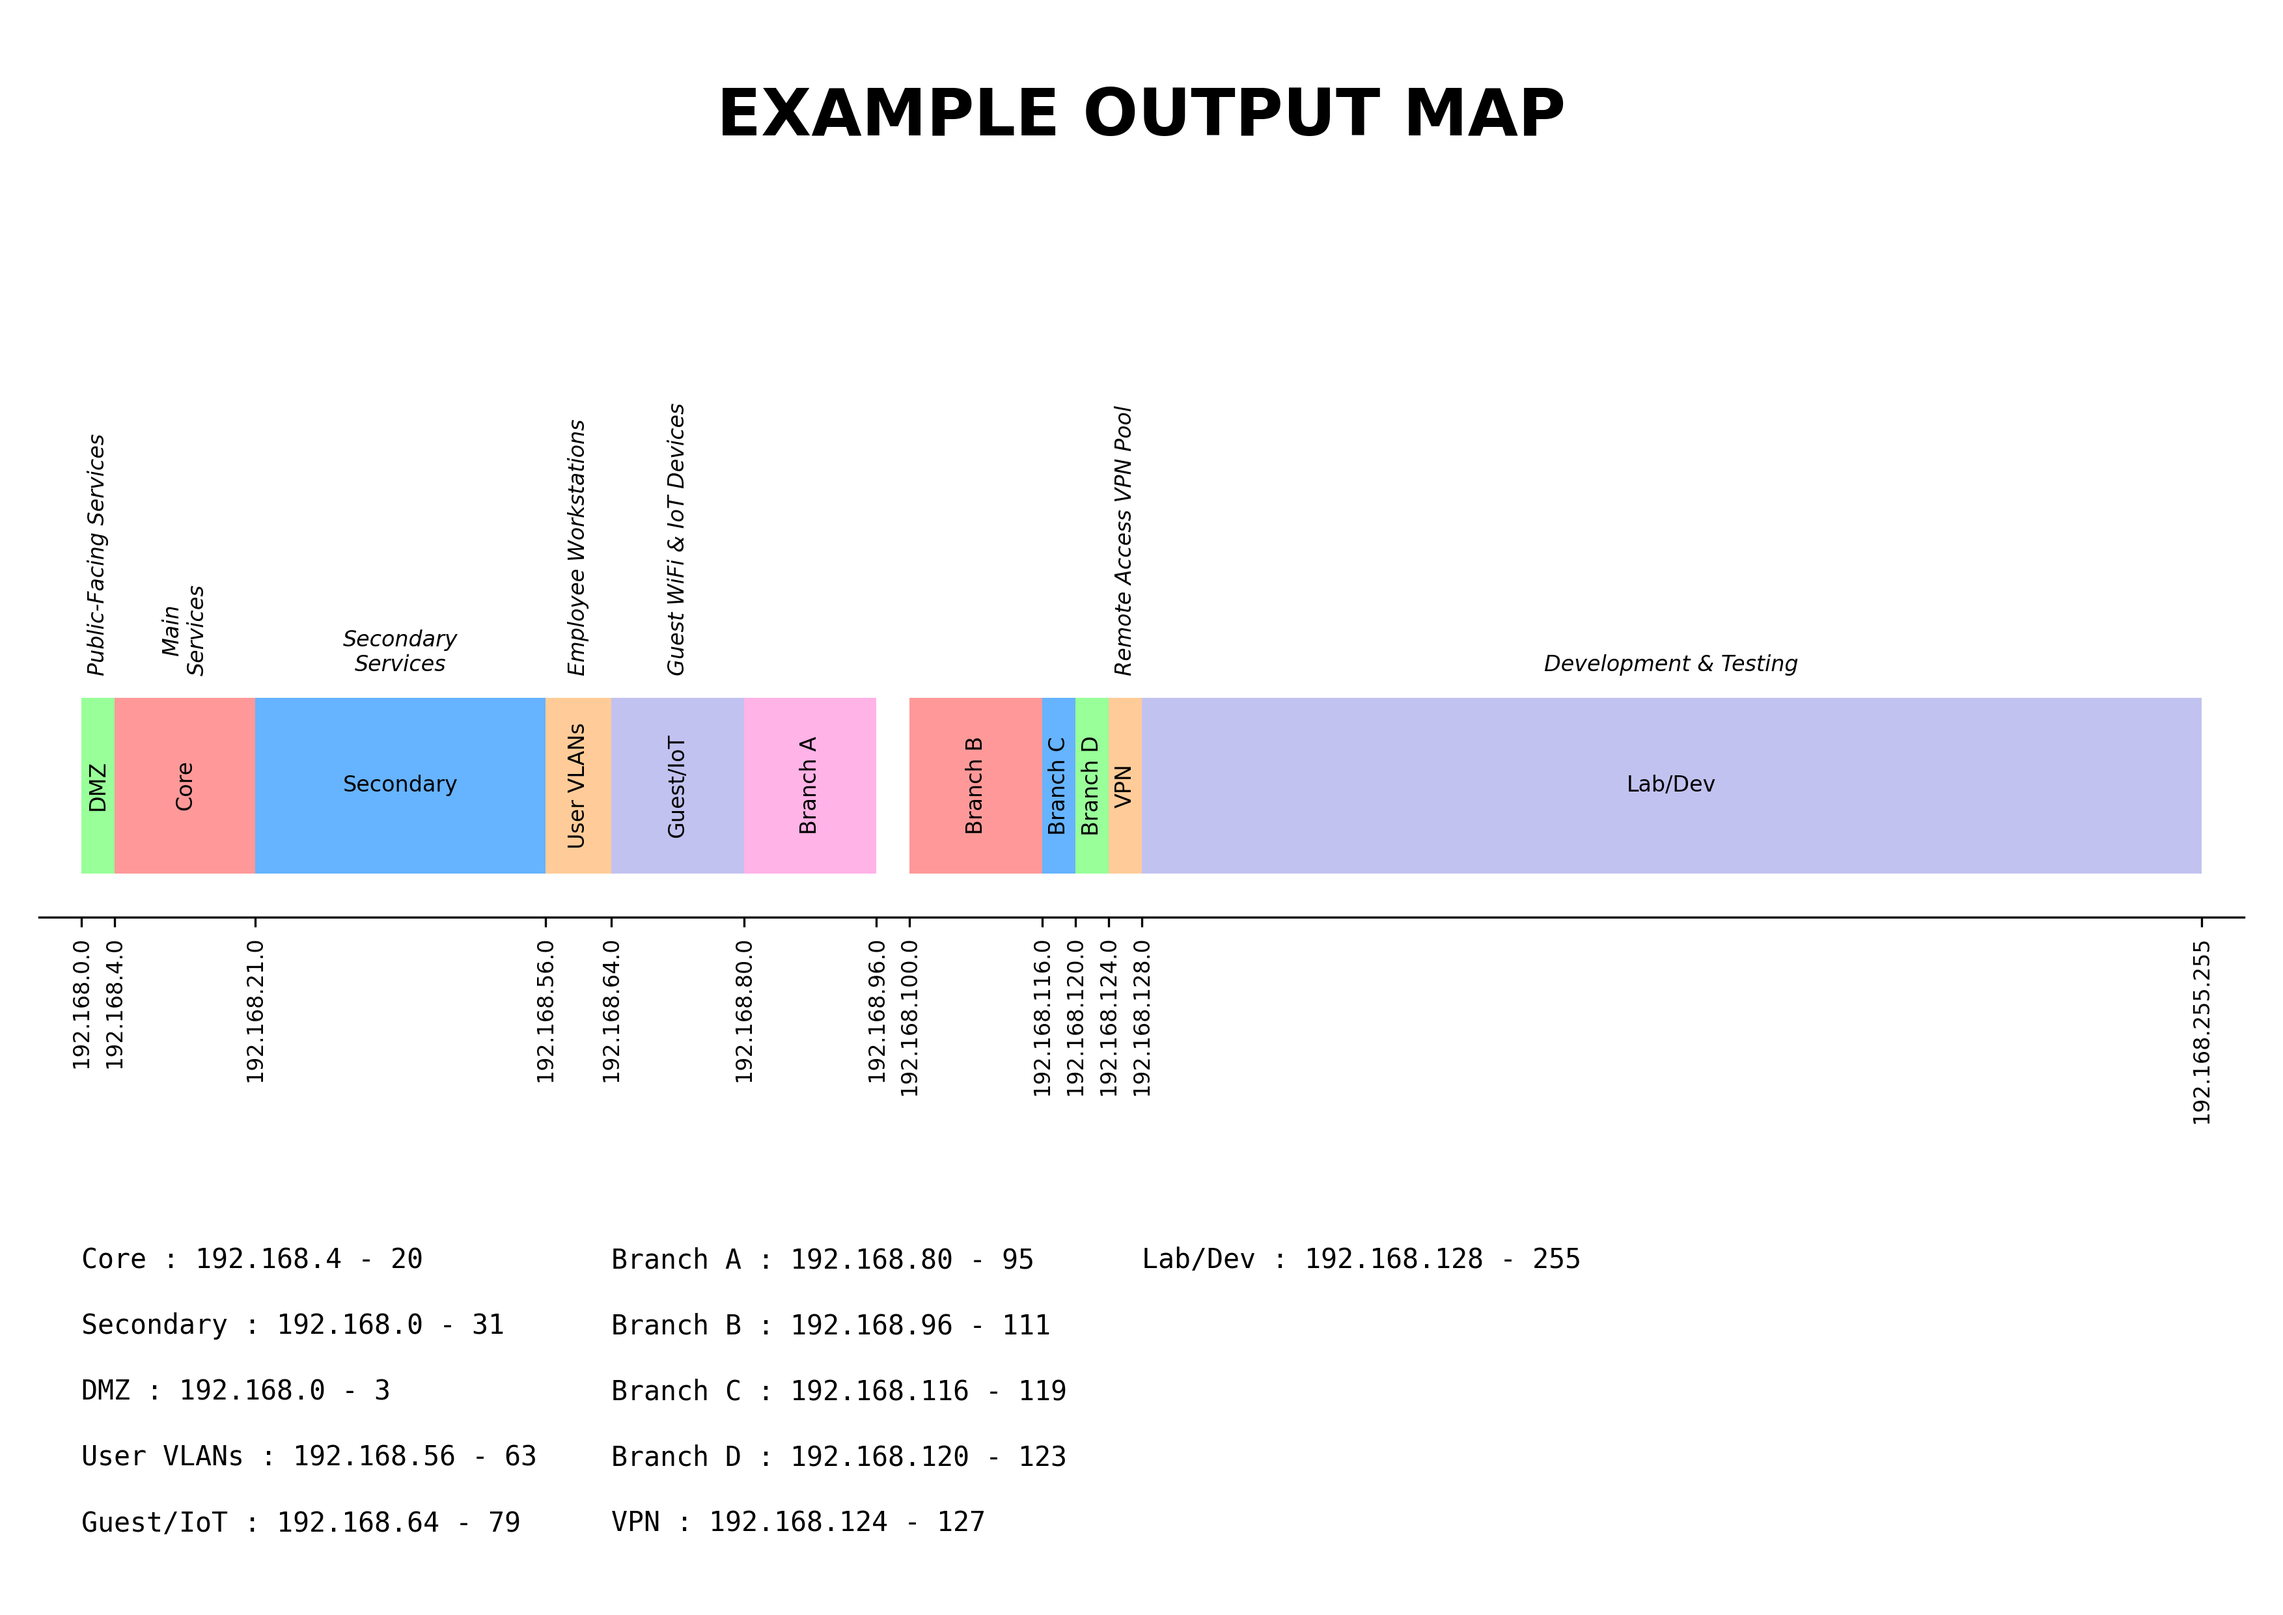
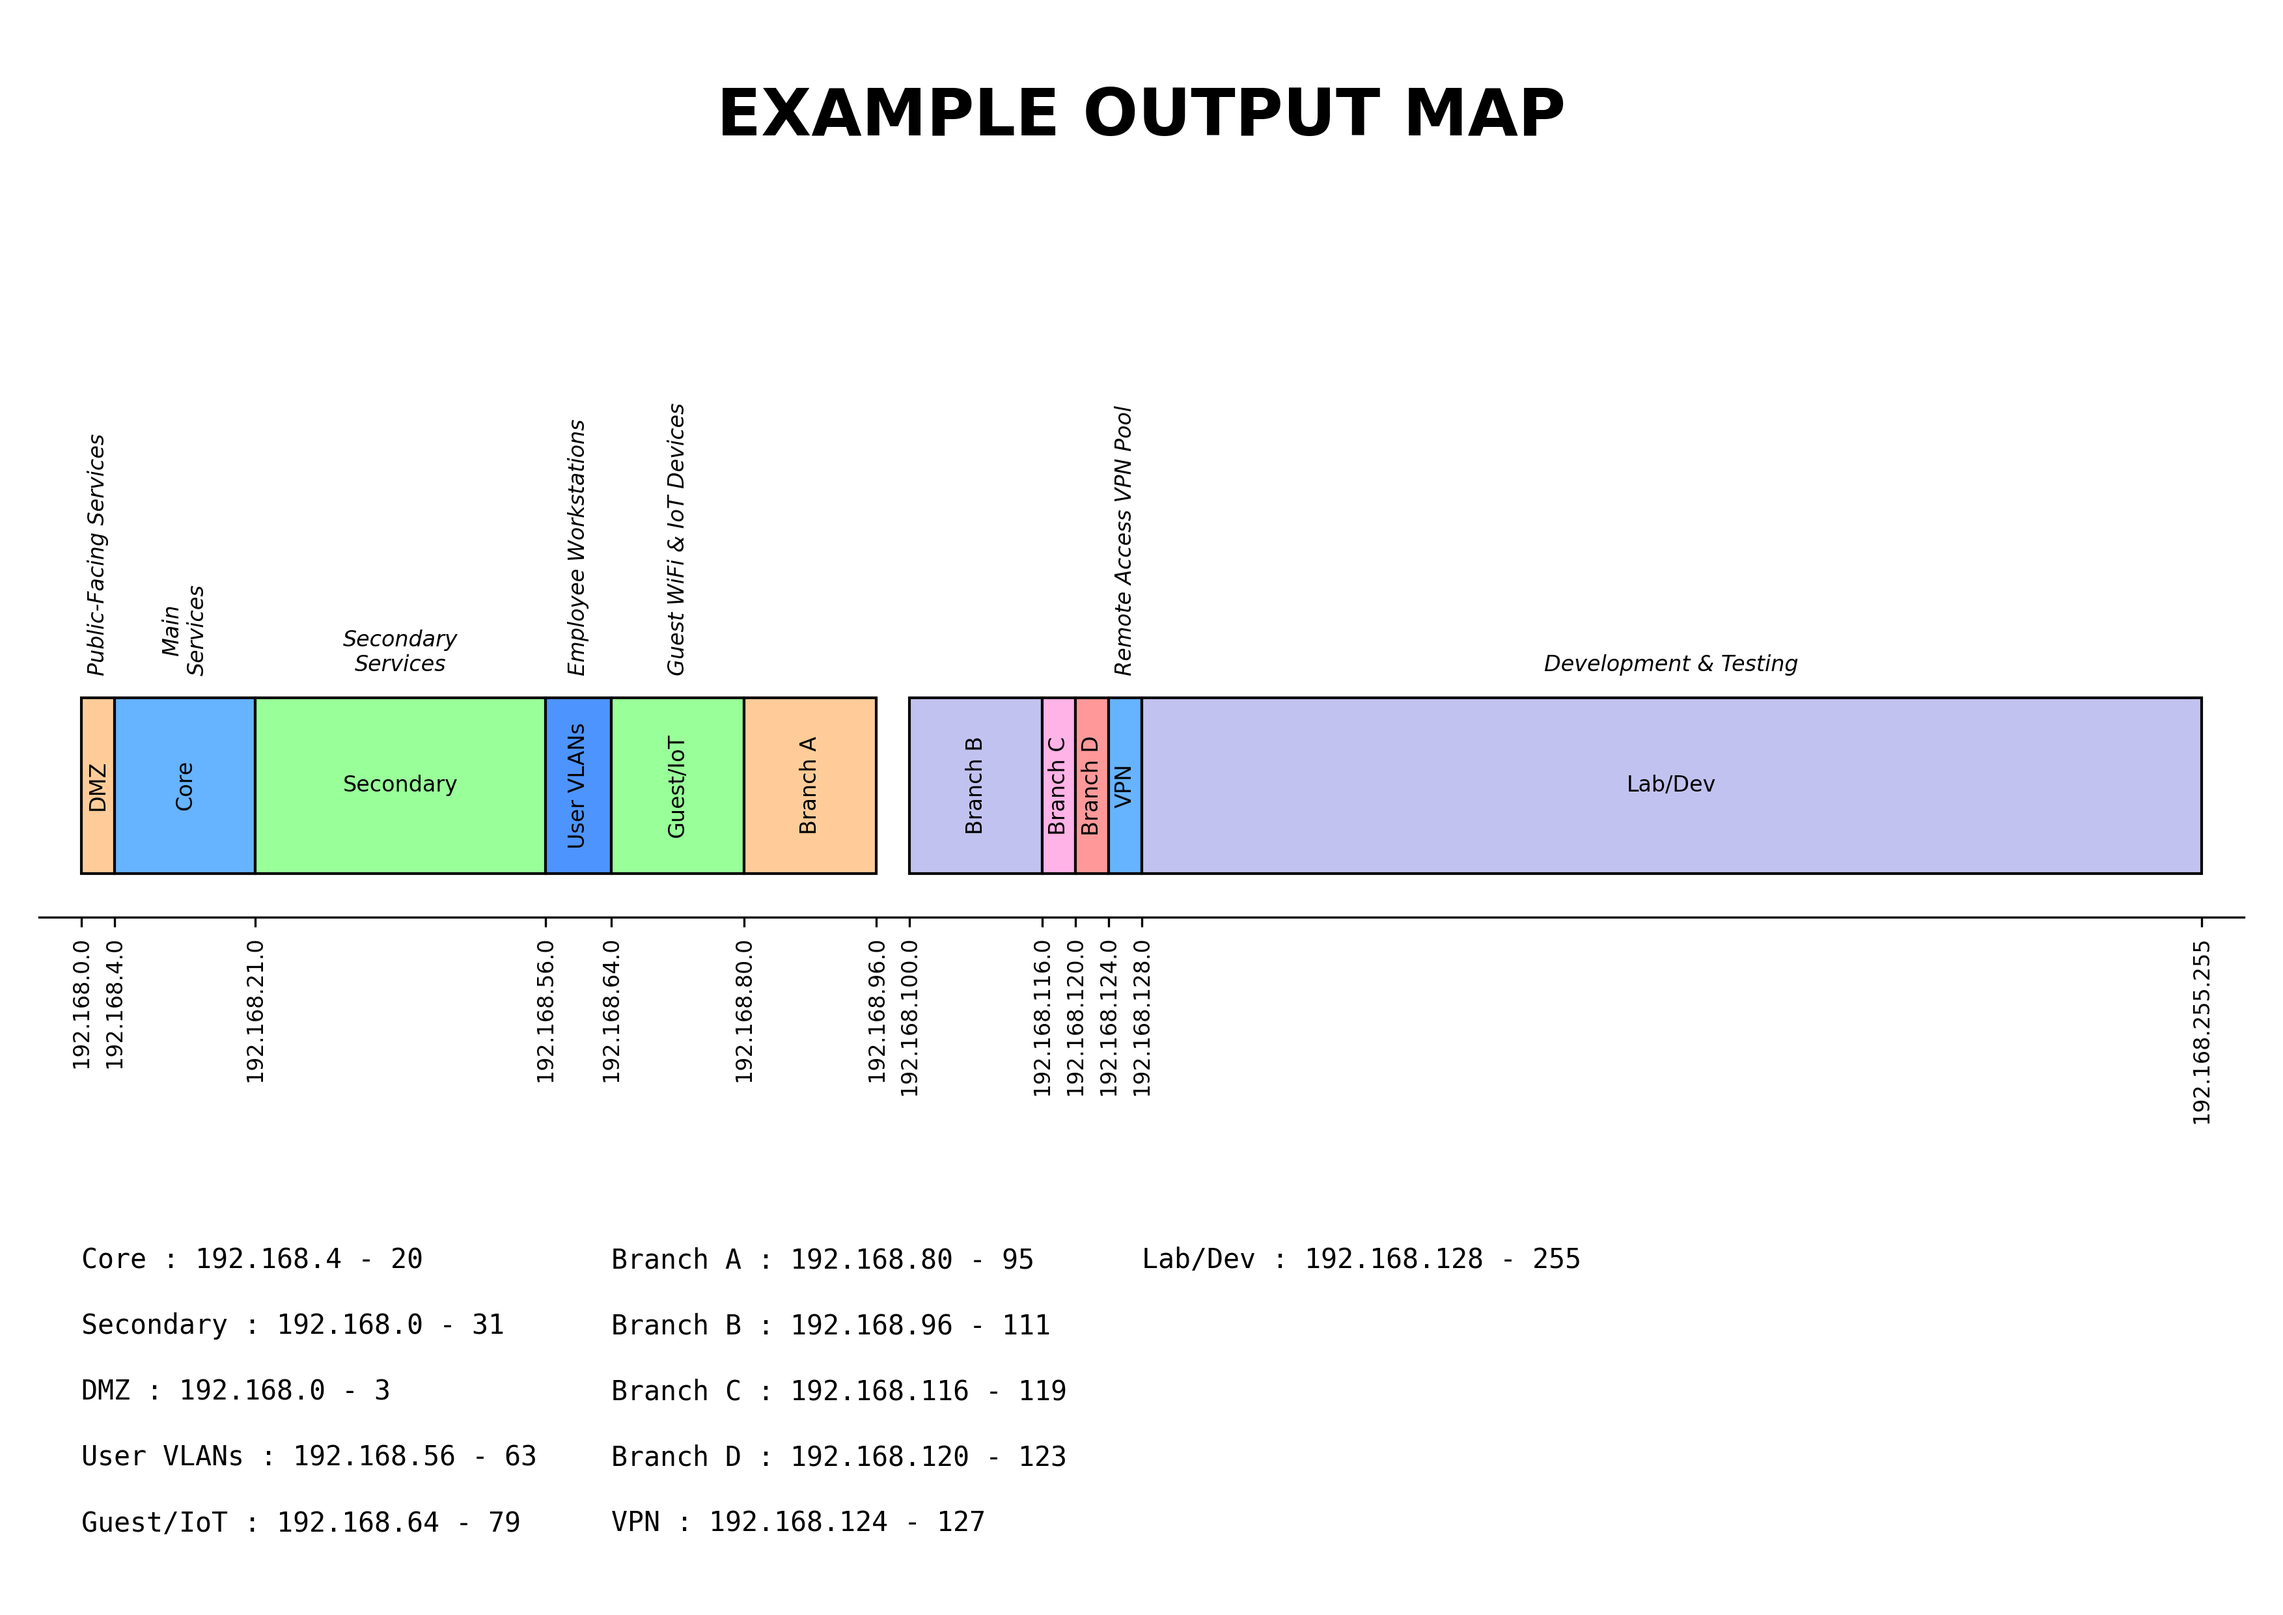
Add subnet color customization and border styling

Changed region(s): [[0.0311, 0.4035, 0.5284, 0.5586]]

diff --git a/visualizer.py b/visualizer.py
@@ -7,6 +7,22 @@ import importlib.util
 import os
 
 
+# Available colors for subnet groups
+COLORS = {
+    'red': '#ff9999',
+    'blue': '#66b3ff',
+    'light_blue': '#b3e0ff',
+    'dark_blue': '#4d94ff',
+    'green': '#99ff99',
+    'orange': '#ffcc99',
+    'purple': '#c2c2f0',
+    'pink': '#ffb3e6',
+}
+
+# Default color cycle (for groups without explicit color)
+DEFAULT_COLORS = list(COLORS.values())
+
+
 def parse_network(cidr):
     try:
         return ipaddress.ip_network(cidr, strict=False)
@@ -53,6 +69,7 @@ def draw_network_diagram(main_cidr, subnet_groups, title=None, width_px=1400):
         group_comment = group.get('comment')
         cidrs_data = group.get('subnets', [])
         show_full = group.get('show_full', True)
+        group_color = group.get('color')  # Optional color specification
         
         group_subnets = []
         
@@ -138,7 +155,8 @@ def draw_network_diagram(main_cidr, subnet_groups, title=None, width_px=1400):
                     'end_int': end_ip_int,
                     'title': group_title,
                     'group_idx': group_idx,
-                    'comment': group_comment
+                    'comment': group_comment,
+                    'color': group_color
                 })
             except Exception as e:
                 print(f"Error parsing {cidr_str}: {e}")
@@ -157,6 +175,7 @@ def draw_network_diagram(main_cidr, subnet_groups, title=None, width_px=1400):
                 'title': group_title,
                 'group_idx': group_idx,
                 'comment': group_comment,
+                'color': group_color,
                 'show_full': False
             })
         else:
@@ -249,24 +268,28 @@ def render_plot(main_net, subnets_data, text_summaries, output_file, title=None,
 
     # Draw Subnets
     subnets_data.sort(key=lambda x: x['start_int'])
-    
-    colors = ['#ff9999', '#66b3ff', '#99ff99', '#ffcc99', '#c2c2f0', '#ffb3e6']
-    
+
     for i, item in enumerate(subnets_data):
         # Use custom coordinates
         s_start = item['start_int']
         s_end = item['end_int']
         s_width = s_end - s_start + 1
-        
+
         subnet_title = item['title']
         group_idx = item['group_idx']
         comment = item['comment']
         cidr_label = item['cidr_str']
-        
+        specified_color = item.get('color')
+
         # Determine color based on style
         if style == "colored":
-            color = colors[group_idx % len(colors)]
-            edge_color = 'none'
+            if specified_color:
+                # Use specified color (lookup by name or use hex directly)
+                color = COLORS.get(specified_color, specified_color)
+            else:
+                # Fall back to default color cycle
+                color = DEFAULT_COLORS[group_idx % len(DEFAULT_COLORS)]
+            edge_color = 'black'
         else:
             color = 'white' # B&W style
             edge_color = 'black'

diff --git a/example_data.py b/example_data.py
@@ -6,6 +6,7 @@ subnet_groups = [
         "title": "Core",
         "comment": "Main\nServices",
         "show_full": False,
+        "color": "blue",  # Using color name
         "subnets": [
             "192.168.4.0/23",
             "192.168.16.0/22",
@@ -16,6 +17,7 @@ subnet_groups = [
         "title": "Secondary",
         "comment": "Secondary\nServices",
         "show_full": False,
+        "color": "green",  # Using color name
         "subnets": [
             "192.168.21.0/24",
             "192.168.22.0/23",
@@ -27,6 +29,7 @@ subnet_groups = [
         "title": "DMZ",
         "comment": "Public-Facing Services",
         "show_full": False,
+        "color": "orange",  # Using color name
         "subnets": [
             "192.168.0.0/22",
         ]
@@ -91,6 +94,7 @@ subnet_groups = [
         "title": "Lab/Dev",
         "comment": "Development & Testing",
         "show_full": False,
+        "color": "#c2c2f0",  # Using hex code directly
         "subnets": [
             "192.168.128.0/17",
         ]

diff --git a/README.md b/README.md
@@ -46,6 +46,15 @@ python visualizer.py -in example_data.py
     *   `subnets` (list): Список підмереж (строки CIDR або словники з додатковими параметрами).
     *   `comment` (str, опціонально): Додатковий коментар.
     *   `show_full` (bool, опціонально): Чи показувати всі деталі підмереж.
+    *   `color` (str, опціонально): Колір групи. Можна вказати назву або hex-код. Доступні назви:
+        *   `red` - світло-червоний (#ff9999)
+        *   `blue` - синій (#66b3ff)
+        *   `light_blue` - світло-синій (#b3e0ff)
+        *   `dark_blue` - темно-синій (#4d94ff)
+        *   `green` - світло-зелений (#99ff99)
+        *   `orange` - світло-оранжевий (#ffcc99)
+        *   `purple` - світло-фіолетовий (#c2c2f0)
+        *   `pink` - світло-рожевий (#ffb3e6)
 *   **`map_title`** (str, опціонально): Заголовок, який буде відображено на діаграмі.
 
 Приклад структури даних можна переглянути у файлі `example_data.py`.
